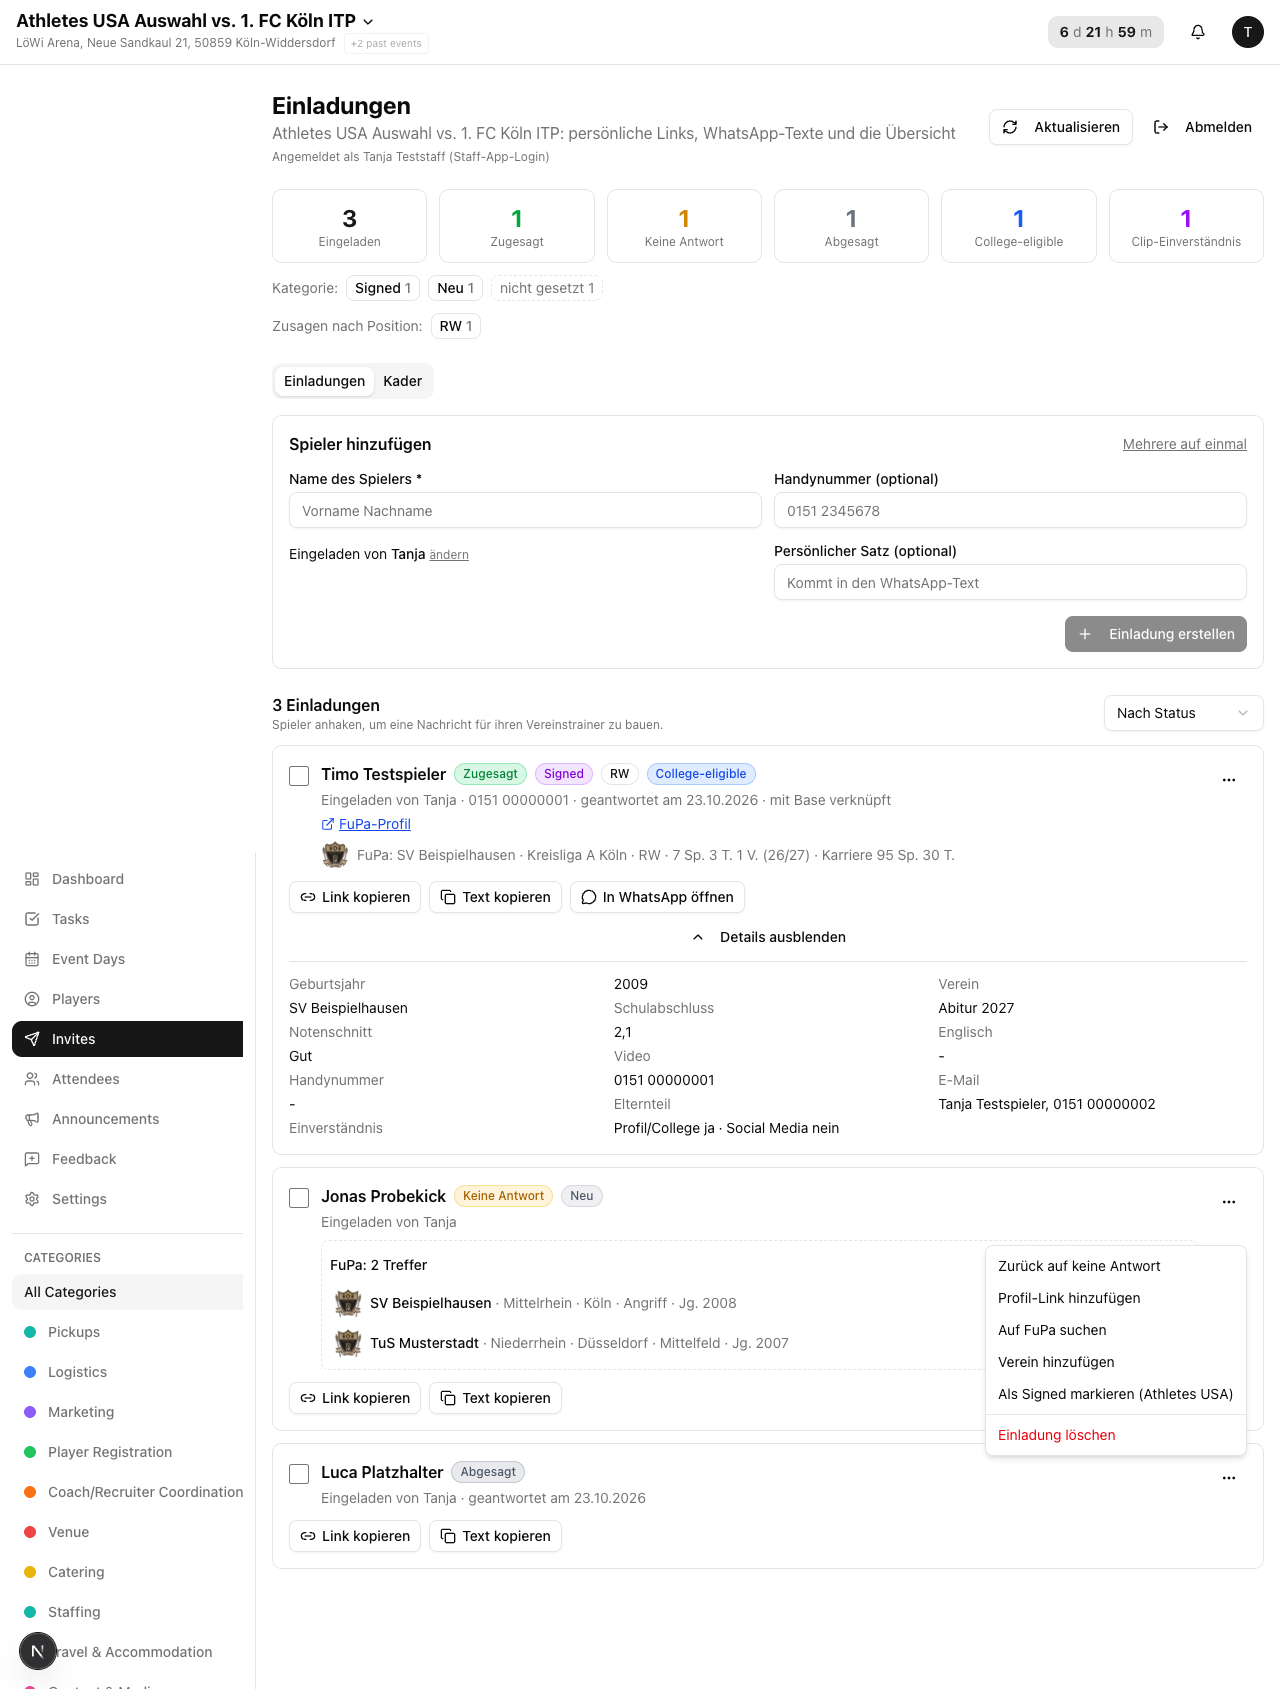
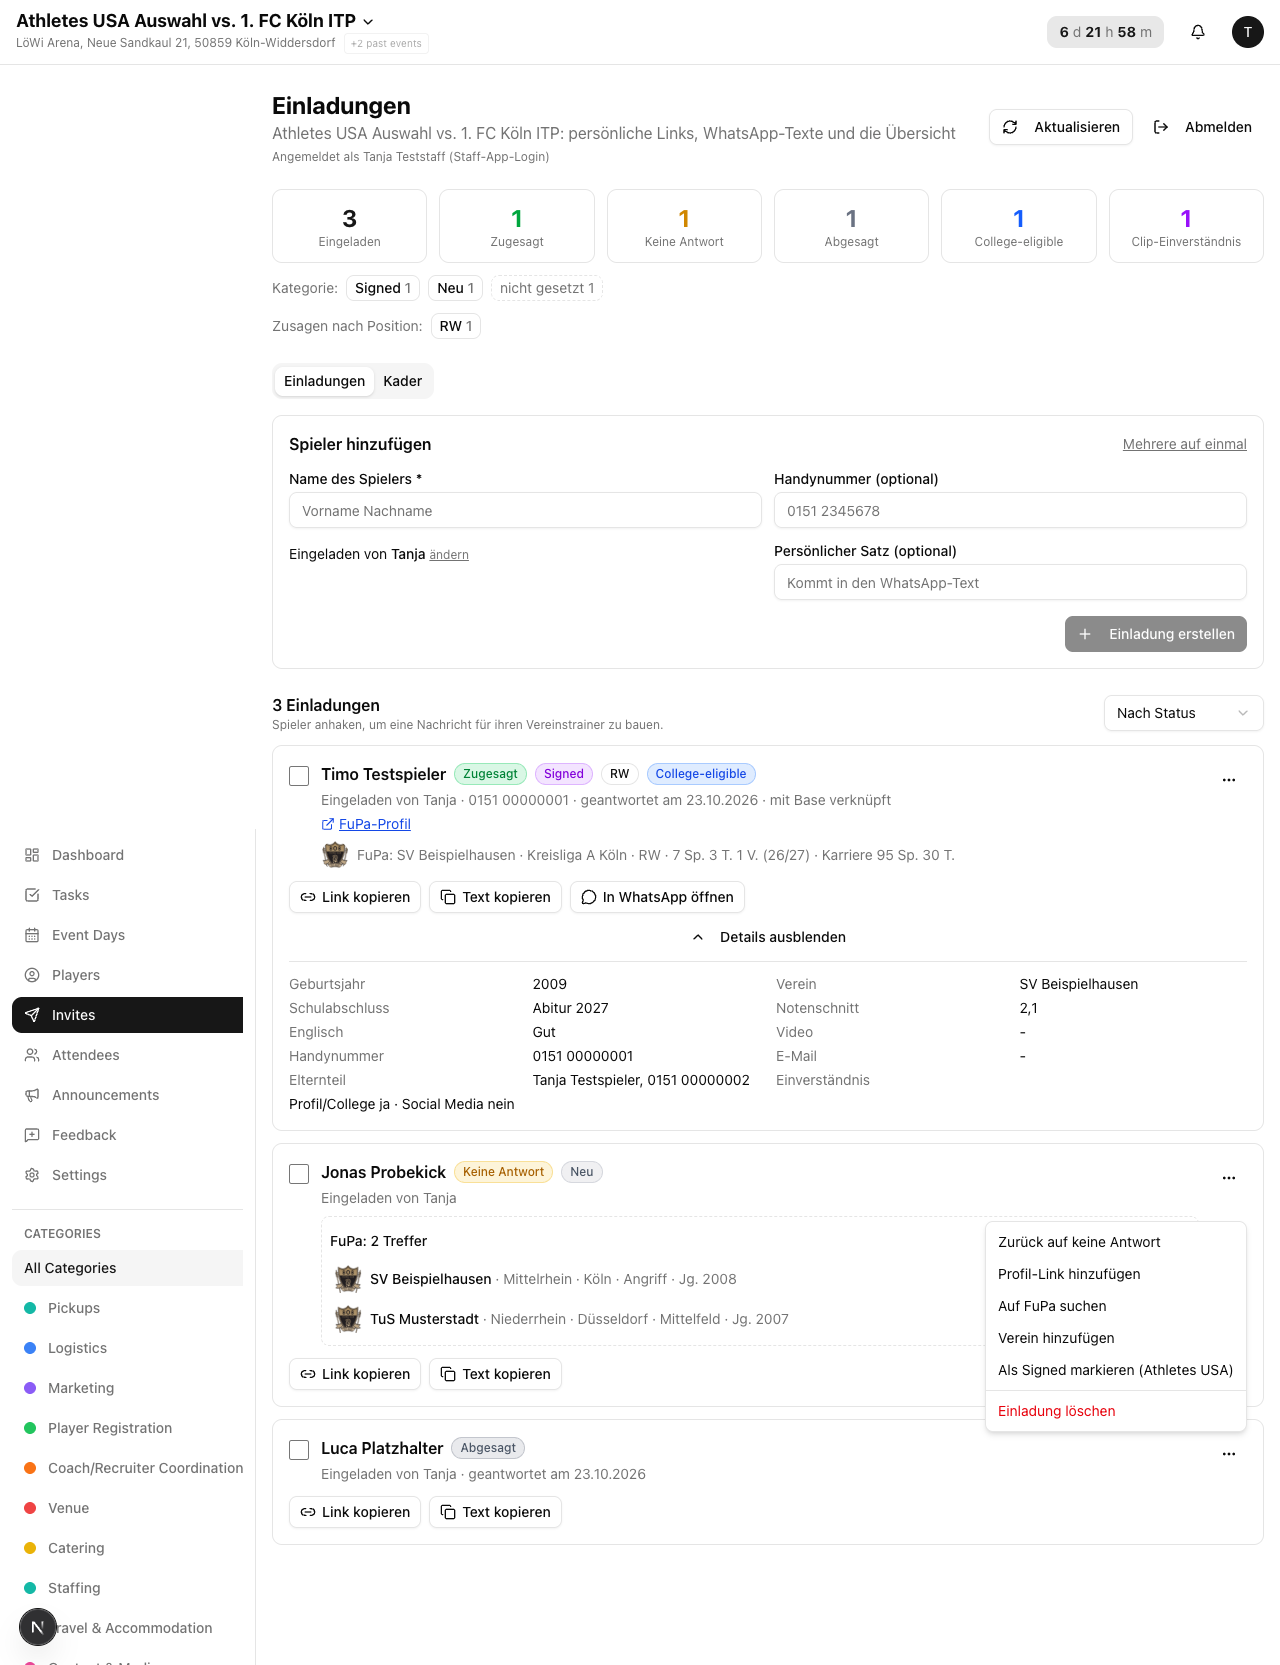
fix(invites): details grid keeps label and value side by side on desktop

diff --git a/src/components/invites/invite-row.tsx b/src/components/invites/invite-row.tsx
@@ -124,7 +124,7 @@ export const InviteRow = ({ invite, link, message, waUrl, selected, onSelect, on
             {open ? 'Details ausblenden' : 'Details'}
           </Button>
           {open && (
-            <dl className="mt-2 grid grid-cols-2 gap-x-4 gap-y-1 border-t pt-3 text-sm sm:grid-cols-3">
+            <dl className="mt-2 grid grid-cols-2 gap-x-4 gap-y-1 border-t pt-3 text-sm sm:grid-cols-4">
               <dt className="text-muted-foreground">Geburtsjahr</dt><dd>{p.birth_year ?? '-'}</dd>
               <dt className="text-muted-foreground">Verein</dt><dd>{p.club ?? '-'}</dd>
               <dt className="text-muted-foreground">Schulabschluss</dt><dd>{p.school_type ? SCHOOL[p.school_type] : '-'}{p.grad_year ? ` ${p.grad_year}` : ''}</dd>
@@ -136,7 +136,7 @@ export const InviteRow = ({ invite, link, message, waUrl, selected, onSelect, on
               <dt className="text-muted-foreground">E-Mail</dt><dd className="truncate">{p.email ?? '-'}</dd>
               <dt className="text-muted-foreground">Elternteil</dt><dd>{p.parent_name ? `${p.parent_name}${p.parent_phone ? `, ${p.parent_phone}` : ''}` : '-'}</dd>
               <dt className="text-muted-foreground">Einverständnis</dt>
-              <dd className="col-span-1 sm:col-span-2">Profil/College {yesNo(p.consent_profile_at)} · Social Media {yesNo(p.consent_social_at)}</dd>
+              <dd className="col-span-1 sm:col-span-3">Profil/College {yesNo(p.consent_profile_at)} · Social Media {yesNo(p.consent_social_at)}</dd>
             </dl>
           )}
         </>
